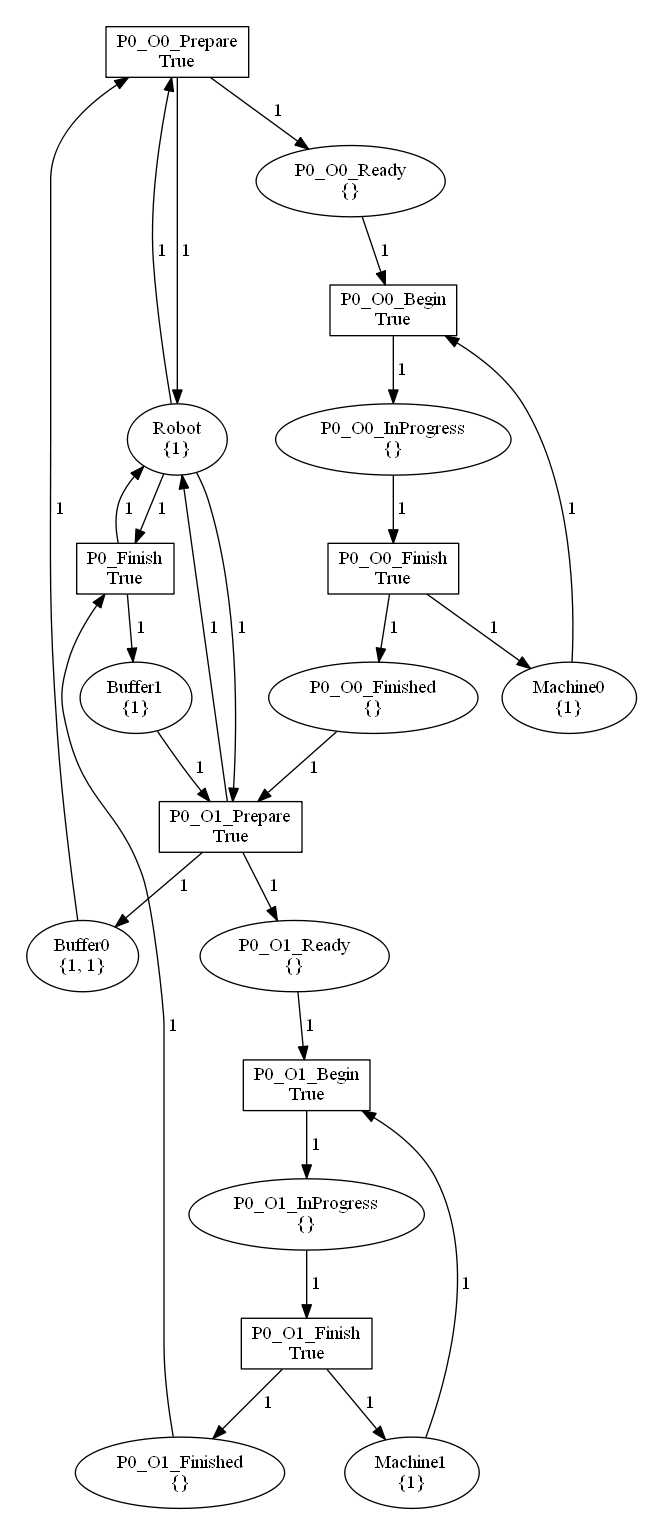
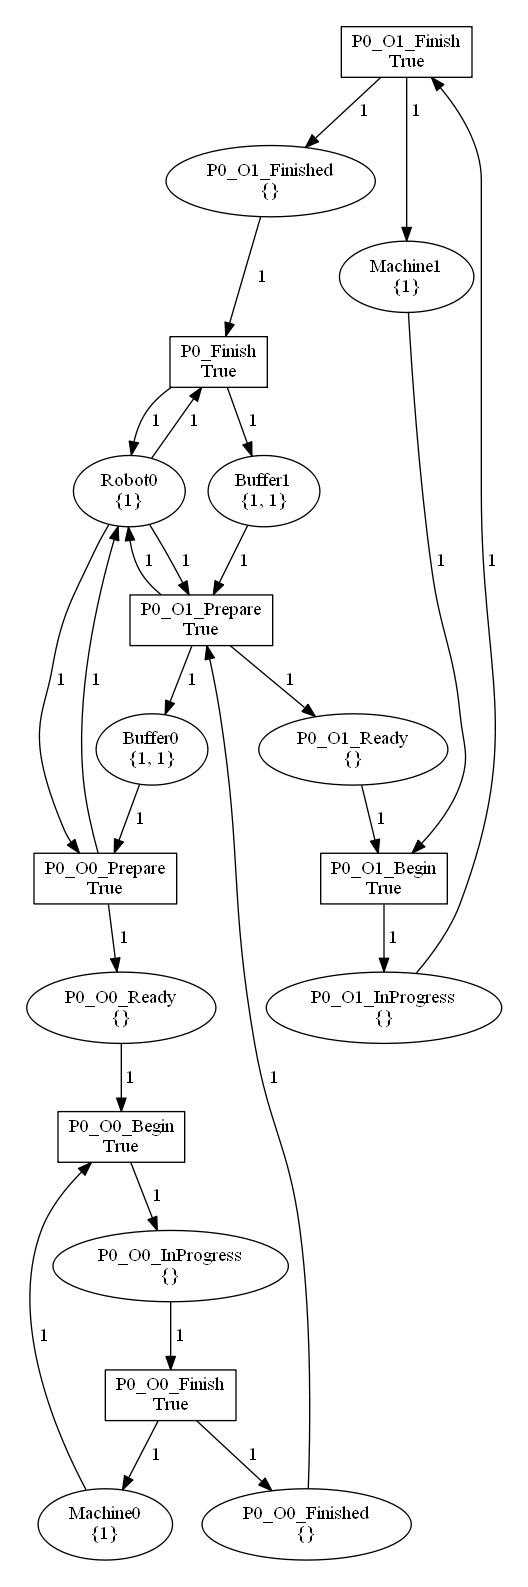
OneProcessLineParametrised done

diff --git a/RAS_AssemblyLine/OneProcessLine.py b/RAS_AssemblyLine/OneProcessLine.py
@@ -3,64 +3,47 @@ snakes.plugins.load('gv', 'snakes.nets', 'nets')
 from nets import *
 net = PetriNet('Tutorial Net')
 
-net.add_place(Place('Robot', [1]))
-net.add_place(Place('Machine0',[1]))
-net.add_place(Place('Machine1',[1]))
-net.add_place(Place('Buffer0',[1,1]))
-net.add_place(Place('Buffer1',[1]))
+numberOfMachines = 2
+numberOfRobots = 1
+numberOfProcesses = 1
+ProcessOperations = [[0, 1]]
 
-net.add_place(Place('P0_O0_Ready',[]))
-net.add_place(Place('P0_O0_InProgress',[]))
-net.add_place(Place('P0_O0_Finished',[]))
+for i in range(0, numberOfRobots):
+    net.add_place(Place('Robot'+str(i), [1]))
+for i in range(0, numberOfMachines):
+    net.add_place(Place('Machine'+str(i),[1]))
+    net.add_place(Place('Buffer'+str(i),[1,1]))
 
-net.add_place(Place('P0_O1_Ready',[]))
-net.add_place(Place('P0_O1_InProgress',[]))
-net.add_place(Place('P0_O1_Finished',[]))
 
-#operation0
+for i in range(0, len(ProcessOperations)):
+    for j in range(0, len(ProcessOperations[i])):
+        net.add_place(Place('P'+str(i)+'_O'+str(j)+'_Ready',[]))
+        net.add_place(Place('P'+str(i)+'_O'+str(j)+'_InProgress',[]))
+        net.add_place(Place('P'+str(i)+'_O'+str(j)+'_Finished',[]))
 
-net.add_transition(Transition('P0_O0_Prepare'))
-net.add_input('Buffer0','P0_O0_Prepare',Value(1))
-net.add_input('Robot','P0_O0_Prepare',Value(1))
-net.add_output('P0_O0_Ready','P0_O0_Prepare',Value(1))
-net.add_output('Robot','P0_O0_Prepare',Value(1))
+        net.add_transition(Transition('P'+str(i)+'_O'+str(j)+'_Prepare'))
+        net.add_input('Buffer'+str(ProcessOperations[i][j]),'P'+str(i)+'_O'+str(j)+'_Prepare',Value(1))
+        net.add_input('Robot0','P'+str(i)+'_O'+str(j)+'_Prepare',Value(1))
+        net.add_output('P'+str(i)+'_O'+str(j)+'_Ready','P'+str(i)+'_O'+str(j)+'_Prepare',Value(1))
+        net.add_output('Robot0','P'+str(i)+'_O'+str(j)+'_Prepare',Value(1))
+        if(j > 0):
+            net.add_input('P'+str(i)+'_O'+str(j-1)+'_Finished','P'+str(i)+'_O'+str(j)+'_Prepare',Value(1))
+            net.add_output('Buffer'+str(ProcessOperations[i][j-1]),'P'+str(i)+'_O'+str(j)+'_Prepare',Value(1))
 
-net.add_transition(Transition('P0_O0_Begin'))
-net.add_input('P0_O0_Ready','P0_O0_Begin',Value(1))
-net.add_input('Machine0','P0_O0_Begin',Value(1))
-net.add_output('P0_O0_InProgress','P0_O0_Begin',Value(1))
+        net.add_transition(Transition('P'+str(i)+'_O'+str(j)+'_Begin'))
+        net.add_input('P'+str(i)+'_O'+str(j)+'_Ready','P'+str(i)+'_O'+str(j)+'_Begin',Value(1))
+        net.add_input('Machine'+str(ProcessOperations[i][j]),'P'+str(i)+'_O'+str(j)+'_Begin',Value(1))
+        net.add_output('P'+str(i)+'_O'+str(j)+'_InProgress','P'+str(i)+'_O'+str(j)+'_Begin',Value(1))
 
-net.add_transition(Transition('P0_O0_Finish'))
-net.add_input('P0_O0_InProgress','P0_O0_Finish',Value(1))
-net.add_output('Machine0','P0_O0_Finish',Value(1))
-net.add_output('P0_O0_Finished','P0_O0_Finish',Value(1))
+        net.add_transition(Transition('P'+str(i)+'_O'+str(j)+'_Finish'))
+        net.add_input('P'+str(i)+'_O'+str(j)+'_InProgress','P'+str(i)+'_O'+str(j)+'_Finish',Value(1))
+        net.add_output('Machine'+str(ProcessOperations[i][j]),'P'+str(i)+'_O'+str(j)+'_Finish',Value(1))
+        net.add_output('P'+str(i)+'_O'+str(j)+'_Finished','P'+str(i)+'_O'+str(j)+'_Finish',Value(1))
 
-#operation1
+    net.add_transition(Transition('P'+str(i)+'_Finish'))
+    net.add_input('P'+str(i)+'_O'+str(len(ProcessOperations[i])-1)+'_Finished','P'+str(i)+'_Finish',Value(1))
+    net.add_input('Robot0','P'+str(i)+'_Finish',Value(1))
+    net.add_output('Buffer'+str(ProcessOperations[i][-1]),'P'+str(i)+'_Finish',Value(1))
+    net.add_output('Robot0','P'+str(i)+'_Finish',Value(1))
 
-net.add_transition(Transition('P0_O1_Prepare'))
-net.add_input('P0_O0_Finished','P0_O1_Prepare',Value(1))
-net.add_input('Buffer1','P0_O1_Prepare',Value(1))
-net.add_input('Robot','P0_O1_Prepare',Value(1))
-net.add_output('P0_O1_Ready','P0_O1_Prepare',Value(1))
-net.add_output('Buffer0','P0_O1_Prepare',Value(1))
-net.add_output('Robot','P0_O1_Prepare',Value(1))
-
-net.add_transition(Transition('P0_O1_Begin'))
-net.add_input('P0_O1_Ready','P0_O1_Begin',Value(1))
-net.add_input('Machine1','P0_O1_Begin',Value(1))
-net.add_output('P0_O1_InProgress','P0_O1_Begin',Value(1))
-
-net.add_transition(Transition('P0_O1_Finish'))
-net.add_input('P0_O1_InProgress','P0_O1_Finish',Value(1))
-net.add_output('Machine1','P0_O1_Finish',Value(1))
-net.add_output('P0_O1_Finished','P0_O1_Finish',Value(1))
-
-#finish
-
-net.add_transition(Transition('P0_Finish'))
-net.add_input('P0_O1_Finished','P0_Finish',Value(1))
-net.add_input('Robot','P0_Finish',Value(1))
-net.add_output('Buffer1','P0_Finish',Value(1))
-net.add_output('Robot','P0_Finish',Value(1))
-
-net.draw('OneProcessLine.png')
+net.draw('OneProcessLineParametrised.png')
